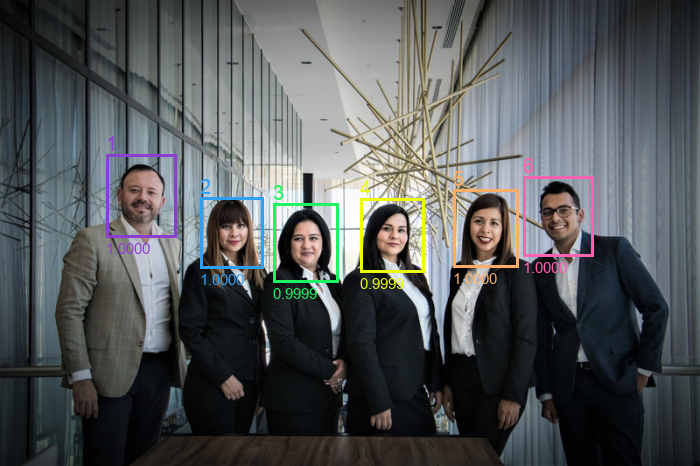
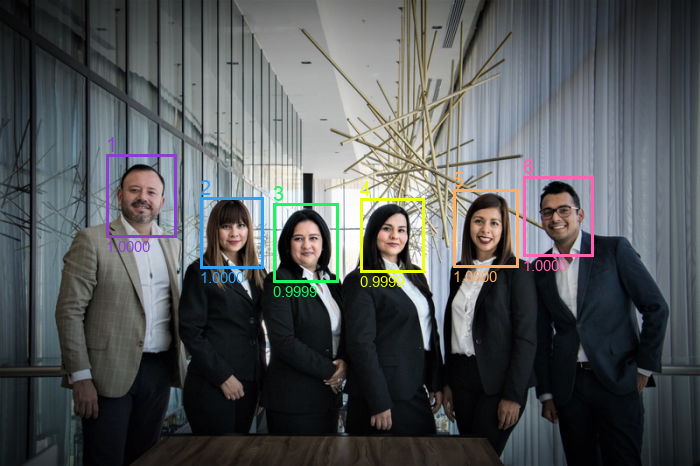
Update README.md image (2)

diff --git a/ml/src/services/facescan/visualizer/show.py b/ml/src/services/facescan/visualizer/show.py
@@ -38,10 +38,10 @@ def _draw_cross(draw, xy, half_length, color, width):
 def _draw_detection_box(img_draw, box, font_size, font_size_smaller, font, box_line_width, color, text):
     img_draw.rectangle(box.xy, outline=color, width=box_line_width)
     img_draw.text(text=text,
-                  xy=(box.x_min, box.y_min - font_size - 2),
+                  xy=(box.x_min, box.y_min - font_size - 1),
                   fill=color, font=ImageFont.truetype(font, font_size))
     img_draw.text(text=f"{box.probability:.4f}",
-                  xy=(box.x_min, box.y_max + 3),
+                  xy=(box.x_min, box.y_max + 1),
                   fill=color, font=ImageFont.truetype(font, font_size_smaller))
 
 

diff --git a/ml/src/services/facescan/run.py b/ml/src/services/facescan/run.py
@@ -55,7 +55,7 @@ if __name__ == '__main__':
     total_errors = 0
     for img_name in _ENV.IMG_NAMES:
         boxes = [face.box for face in _scan_faces(img_name)]
-        noses = name_2_annotation.get(img_name)
+        noses = None#name_2_annotation.get(img_name)
 
         if noses is not None:
             errors = calculate_errors(boxes, noses)
